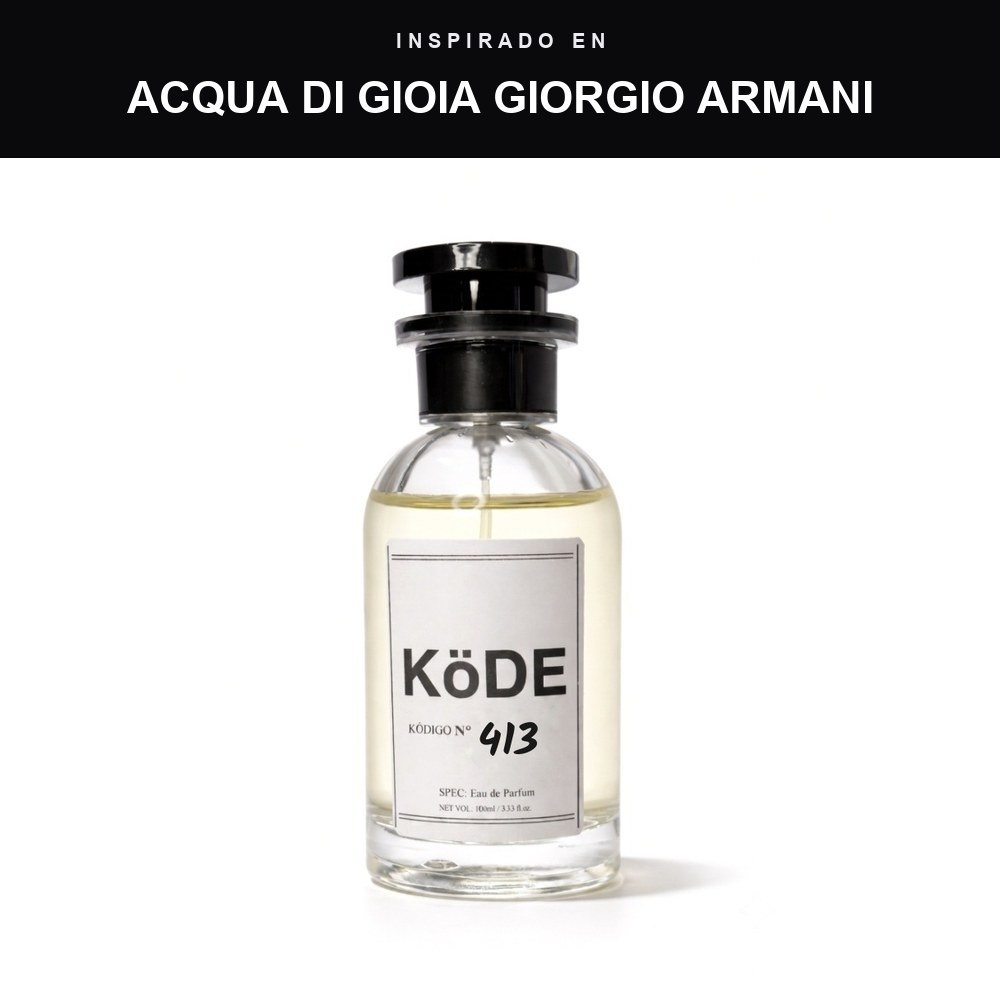
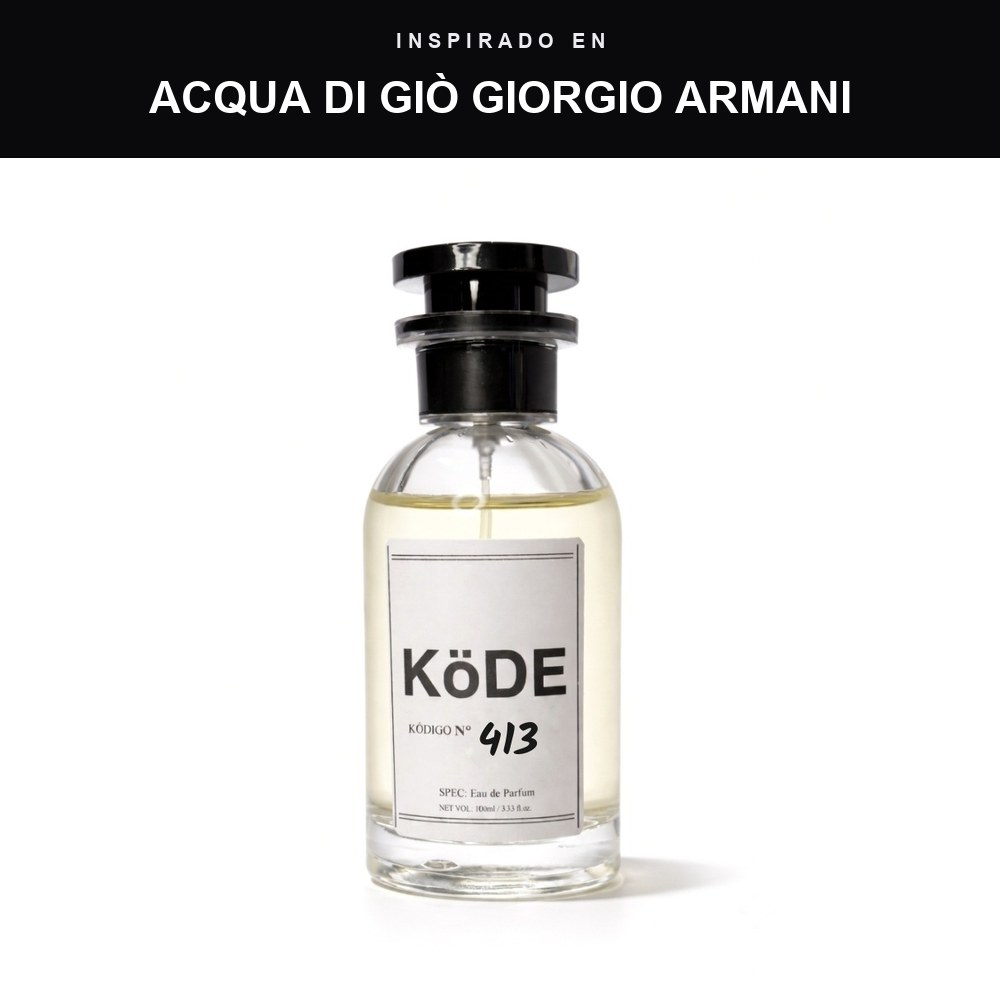
fix(catalog): corregir Kódigo 413 a Acqua di Giò Mujer (Giorgio Armani) con su pirámide floral frutal real

Changed region(s): [[0.124, 0.062, 0.868, 0.124]]

diff --git a/catalog-data.js b/catalog-data.js
@@ -7496,85 +7496,117 @@ window.CATALOG_DATA = [
   {
     "id": "kode-413",
     "code": "413",
-    "name": "Acqua di Gioia",
-    "reference": "Acqua di Gioia",
+    "name": "Acqua di Giò",
+    "reference": "Acqua di Giò",
     "brand": "Giorgio Armani",
-    "description": "Inspirada en Acqua di Gioia de Giorgio Armani. La brisa marina revitalizante por excelencia, cargada de sales minerales, cítricos madurados al sol y un fondo limpio de almizcle y cedro.",
+    "description": "Inspirada en Acqua di Giò de Giorgio Armani. Frescura mediterránea luminosa, floral y femenina. Una salida chispeante de peonía húmeda, durazno aterciopelado, piña y limón de Amalfi da paso a un bouquet cristalino de fresia, lirio, jazmín y jacinto, reposando sobre una estela limpia y envolvente de almizcle blanco, sándalo y cedro.",
     "image": "images/kode/kode_413.jpg",
-    "olfactoryFamily": "Aromática Acuática",
+    "olfactoryFamily": "Floral Frutal",
     "gender": "mujer",
     "sales": 9,
     "accords": [
       {
-        "name": "marino",
+        "name": "floral",
         "percentage": 100,
-        "bg": "#0284c7",
+        "bg": "#c026d3",
         "text": "#ffffff"
       },
       {
-        "name": "cítrico",
+        "name": "fresco",
         "percentage": 90,
         "bg": "#6366f1",
         "text": "#ffffff"
       },
       {
-        "name": "aromático",
+        "name": "floral blanco",
         "percentage": 80,
-        "bg": "#4338ca",
+        "bg": "#818cf8",
         "text": "#ffffff"
       },
       {
-        "name": "fresco",
+        "name": "verde",
         "percentage": 70,
-        "bg": "#4f46e5",
+        "bg": "#059669",
+        "text": "#ffffff"
+      },
+      {
+        "name": "dulce",
+        "percentage": 60,
+        "bg": "#d946ef",
+        "text": "#ffffff"
+      },
+      {
+        "name": "afrutado",
+        "percentage": 50,
+        "bg": "#db2777",
         "text": "#ffffff"
       }
     ],
     "pyramid": {
       "top": [
         {
-          "name": "Lima",
-          "image": "notes/lima.jpg"
+          "name": "Peonía",
+          "image": "notes/peonia.jpg"
+        },
+        {
+          "name": "Vodka de durazno",
+          "image": "notes/melocoton.jpg"
+        },
+        {
+          "name": "Piña",
+          "image": "notes/pina.jpg"
         },
         {
           "name": "Limón",
           "image": "notes/limon.jpg"
         },
         {
-          "name": "Bergamota",
-          "image": "notes/bergamota.jpg"
-        },
-        {
-          "name": "Jazmín",
-          "image": "notes/jazmin.jpg"
+          "name": "Violeta",
+          "image": "notes/violeta.jpg"
         }
       ],
       "heart": [
         {
-          "name": "Notas marinas",
-          "image": "notes/notas-marinas.jpg"
+          "name": "Lirio",
+          "image": "notes/flor-azahar.jpg"
         },
         {
-          "name": "Romero",
-          "image": "notes/romero.jpg"
+          "name": "Fresia",
+          "image": "notes/jazmin.jpg"
         },
         {
-          "name": "Ciclamen",
+          "name": "Jazmín",
+          "image": "notes/jazmin.jpg"
+        },
+        {
+          "name": "Jacinto",
           "image": "notes/violeta.jpg"
+        },
+        {
+          "name": "Ylang-ylang",
+          "image": "notes/ylang-ylang.jpg"
+        },
+        {
+          "name": "Rosa",
+          "image": "notes/rosa.jpg"
         }
       ],
       "base": [
         {
-          "name": "Cedro",
-          "image": "notes/cedro.jpg"
-        },
-        {
-          "name": "Almizcle blanco",
+          "name": "Almizcle",
           "image": "notes/almizcle.jpg"
         },
         {
-          "name": "Musgo de roble",
-          "image": "notes/musgo-roble.jpg"
+          "name": "Sándalo",
+          "image": "notes/sandalo.jpg"
+        },
+        {
+          "name": "Ámbar",
+          "image": "notes/ambar.jpg"
+        },
+        {
+          "name": "Cedro",
+          "image": "notes/cedro.jpg"
         }
       ]
     }

diff --git a/app.js b/app.js
@@ -284,7 +284,7 @@ function initializeCatalogOrder() {
   // Mantener el mismo orden durante la sesión para que al volver esté en el mismo lugar
   const expectedTotal = CATALOG.filter(item => isAromaniakPos(item)).length;
   try {
-    const savedPools = sessionStorage.getItem('kode_catalog_pools_aromaniak_only_v3');
+    const savedPools = sessionStorage.getItem('kode_catalog_pools_aromaniak_only_v4');
     if (savedPools) {
       const parsed = JSON.parse(savedPools);
       if (parsed && parsed.hombre && parsed.hombre.length > 0) {
@@ -319,7 +319,7 @@ function initializeCatalogOrder() {
   });
 
   try {
-    sessionStorage.setItem('kode_catalog_pools_aromaniak_only_v3', JSON.stringify(catalogPools));
+    sessionStorage.setItem('kode_catalog_pools_aromaniak_only_v4', JSON.stringify(catalogPools));
   } catch (e) {}
 }
 

diff --git a/index.html b/index.html
@@ -511,9 +511,9 @@
     </div>
   </dialog>
 
-  <script src="catalog-data.js?v=20261113_aromaniak_sync_v1"></script>
+  <script src="catalog-data.js?v=20261113_aromaniak_sync_v2"></script>
   <script src="tracker.js?v=20260919_quiz_v1" defer></script>
-  <script src="perfume-quiz.js?v=20261113_aromaniak_sync_v1"></script>
-  <script src="app.js?v=20261113_aromaniak_sync_v1"></script>
+  <script src="perfume-quiz.js?v=20261113_aromaniak_sync_v2"></script>
+  <script src="app.js?v=20261113_aromaniak_sync_v2"></script>
 </body>
 </html>

diff --git a/producto.html b/producto.html
@@ -497,8 +497,8 @@
     </div>
   </dialog>
 
-  <script src="catalog-data.js?v=20261113_aromaniak_sync_v1"></script>
+  <script src="catalog-data.js?v=20261113_aromaniak_sync_v2"></script>
   <script src="tracker.js?v=20260919_quiz_v1" defer></script>
-  <script src="product.js?v=20261113_aromaniak_sync_v1"></script>
+  <script src="product.js?v=20261113_aromaniak_sync_v2"></script>
 </body>
 </html>
